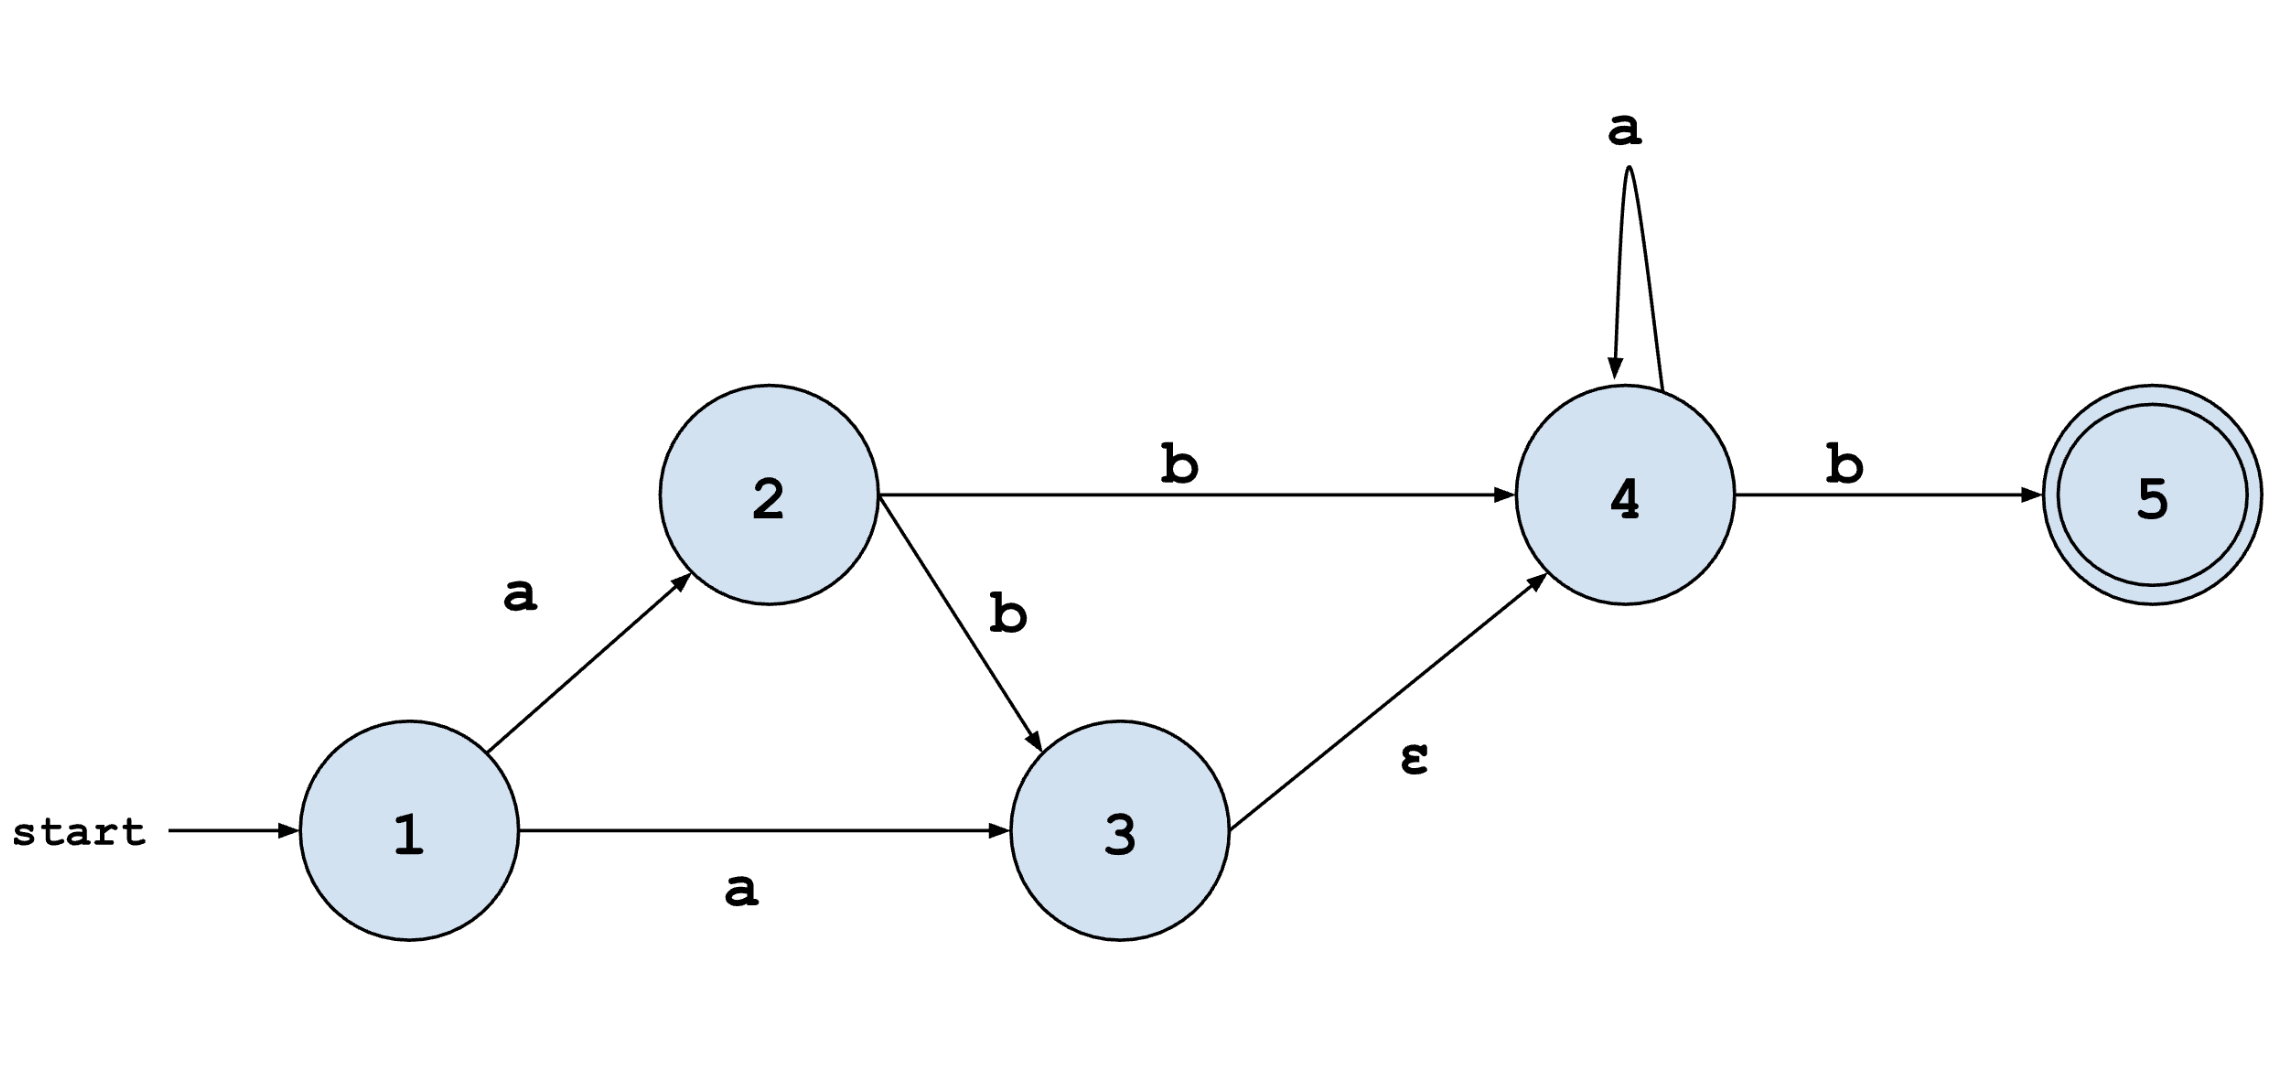
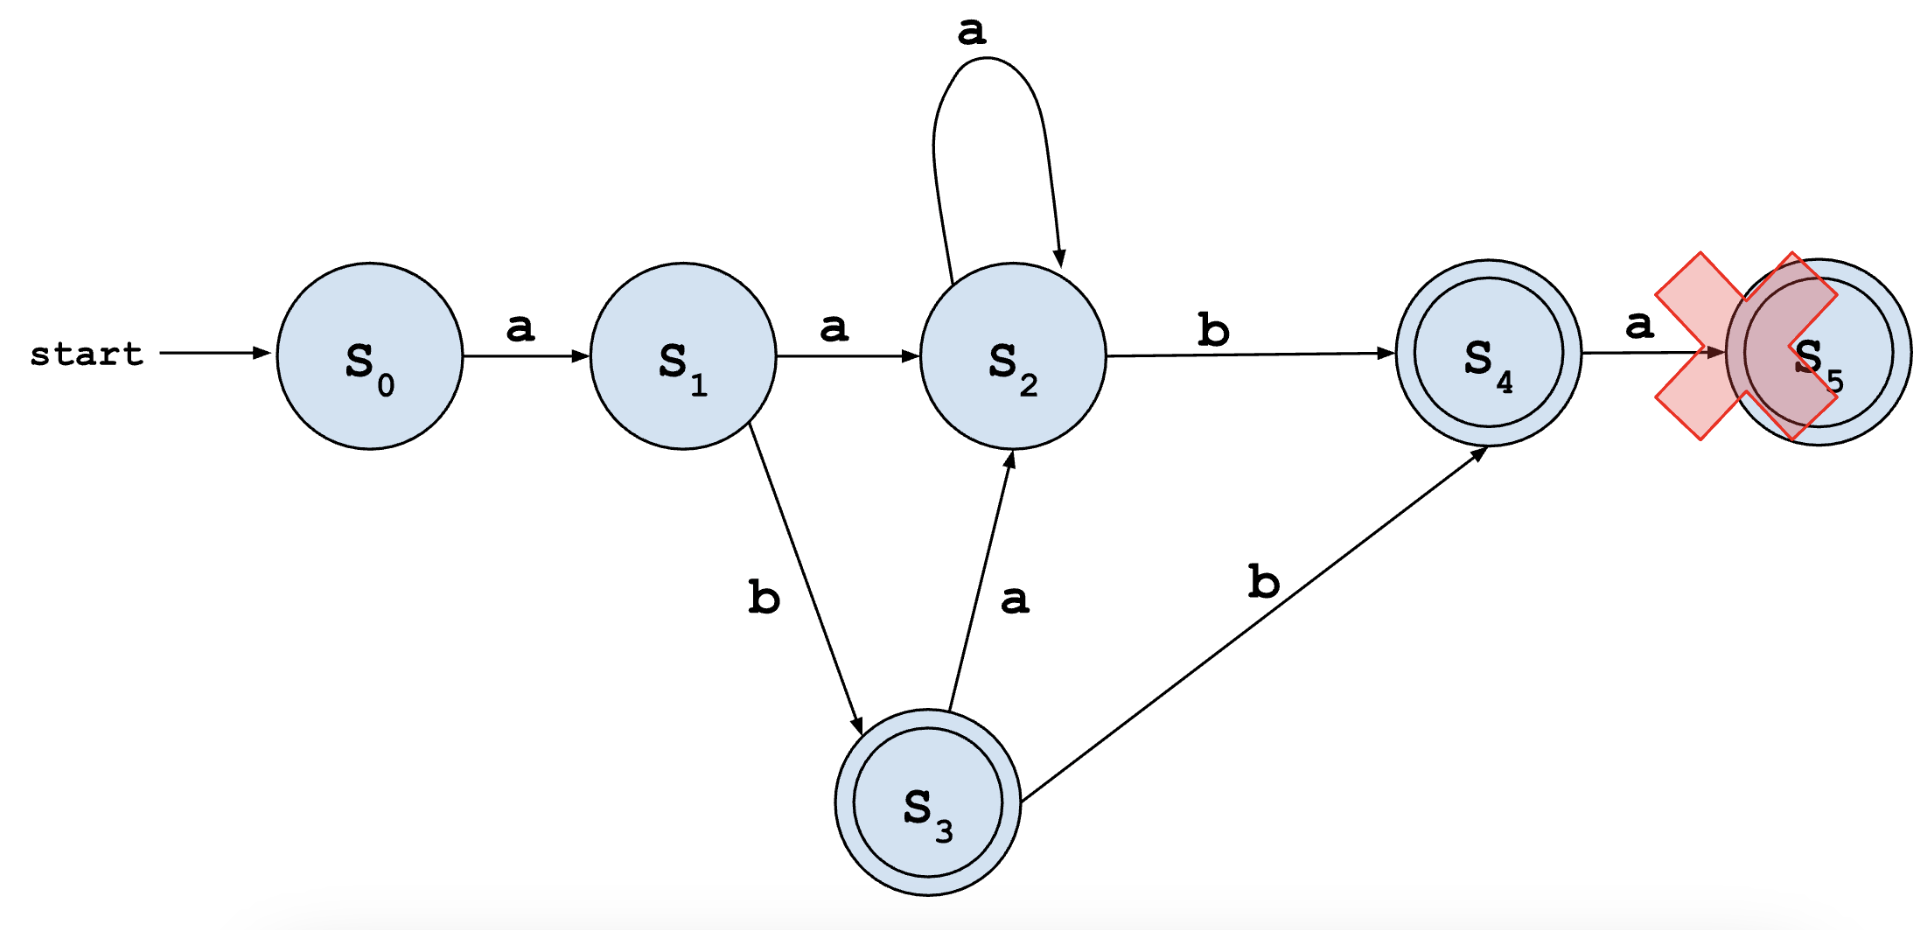
Changes to Exams.

diff --git a/Exams/Dec_2019/Solution.md b/Exams/Dec_2019/Solution.md
@@ -48,31 +48,39 @@ The easiest is to first remove the epsilon from our NFA. To do this, we create a
 
 **REMEMBER!** An epsilon will always contain the node itself - hence the reason why node `1` has node `1`.
 
-During this step, we are ONLY focused on the result of the epsilon connection. Our goal is to remove them by stitching existing nodes together. As node `3` references nodes `{3,4}`, we can conclude that these need to be stitched together - giving us `α`, a combination of nodes `3` and `4`:
+During this step, we are ONLY focused on the result of the epsilon connection. Our goal is to remove them by stitching existing nodes together:
 
-|               | a     | b     | ε     |
-|---------------|-------|-------|-------|
-| 1             | {2,3} | Ø     | 1     |
-| 2             | Ø     | {3,4} | 2     |
-| **α** {3,4}   | 4     | 5     | {3,4} | 
-| 5             | Ø     | Ø     | 5     |
+|   | a     | b     |
+|---|-------|-------|
+| 1 | {2,3} | Ø     |
+| 2 | Ø     | {3,4} | 
+| 3 | 4     | 5     | 
+| 4 | 4     | 5     | 
+| 5 | Ø     | Ø     |
 
-![Alt Text](./SolutionPictures/Exam%202019%20Question%201%20NFA%20No%20Epsilon.png)
-
+![Alt Text](./SolutionPictures/Exam%202019%20Question%201%20No%20Epsilon.png)
 
 ##### Step 2: Convert NFA to DFA:
-Using the slimmed down NFA, we can now create the table to 
+Using the slimmed down NFA, we can now create the DFA table. We will assign new names to each of the states. 
 
-|                          | a                        | b                    |
-|--------------------------|--------------------------|----------------------|
-| 1     := (S<sub>0</sub>) | {2,α} := (S<sub>1</sub>) | Ø                    |
-| 2     := N/A             | Ø                        | α := (S<sub>2</sub>) |
-| α     := (S<sub>3</sub>) | α := (S<sub>2</sub>)     | 5 := (S<sub>4</sub>) | 
-| 5     := (S<sub>4</sub>) | Ø                        | Ø                    |
-| {2,α} := (S<sub>1</sub>) | α := (S<sub>2</sub>)     | α := (S<sub>3</sub>) |
-| {α,5} := (S<sub>3</sub>) | α := (S<sub>2</sub>)     | 5 := (S<sub>4</sub>) |
+**Things to note!**
+- The states with a hyphen indicate that it is no longer in use as we have no way of getting to it from our initial state S<sub>0</sub>.
+- All combinatorial states which contain a terminal state are themselves terminal states. For us, that makes S<sub>3</sub> and S<sub>4</sub> terminals.
+- We remove the state S<sub>5</sub> from our DFA as it would create the desired language.
 
-![Alt Text](./SolutionPictures/Exam%202019%20DFA.png)
+| State   | a     | b       | New State     | a             | b             | 
+|---------|-------|---------|---------------|---------------|---------------|
+| 1       | {2,3} | Ø       | S<sub>0</sub> | S<sub>1</sub> | Ø             |
+| 2       | Ø     | {3,4}   | -             | -             | -             |
+| 3       | 4     | 5       | -             | -             | -             |
+| 4       | 4     | {4,5}   | S<sub>2</sub> | S<sub>2</sub> | S<sub>4</sub> |
+| 5       | Ø     | Ø       | S<sub>5</sub> | Ø             | Ø             |
+| {2,3}   | 4     | {3,4,5} | S<sub>1</sub> | S<sub>2</sub> | S<sub>3</sub> |
+| {3,4}   | 4     | {4,5}   | -             | -             | -             |
+| {3,4,5} | 4     | {4,5}   | S<sub>3</sub> | S<sub>2</sub> | S<sub>4</sub> |
+| {4,5}   | Ø     | 5       | S<sub>4</sub> | Ø             | S<sub>5</sub> |
+
+![Alt Text](./SolutionPictures/Exam%202019%20Question%201%20NFA.png)
 
 ### Question 5:
 #### Spørgsmål:

diff --git a/Exams/Jan_2018/Solution.md b/Exams/Jan_2018/Solution.md
@@ -157,9 +157,12 @@ end
 
 ### Question 1:
 #### Spørgsmål:
-"_Tegn et evaluerings træ, med reglerne i figur 4.3 (PLC) samt e10 og e11 ovenfor, for udtrykket nedenfor._"
+"_Tegn et evaluerings træ, med reglerne i figur 4.3 (PLC) samt e10 og e11 for udtrykket nedenfor._"
+
+![Alt Text](./SolutionPictures/Derivation%20Tree%20Rules%202.png)
 
 #### Svar:
+![Alt Text](./SolutionPictures/Derivation%20Tree%20Solution.png)
 
 ### Question 2:
 #### Spørgsmål:
